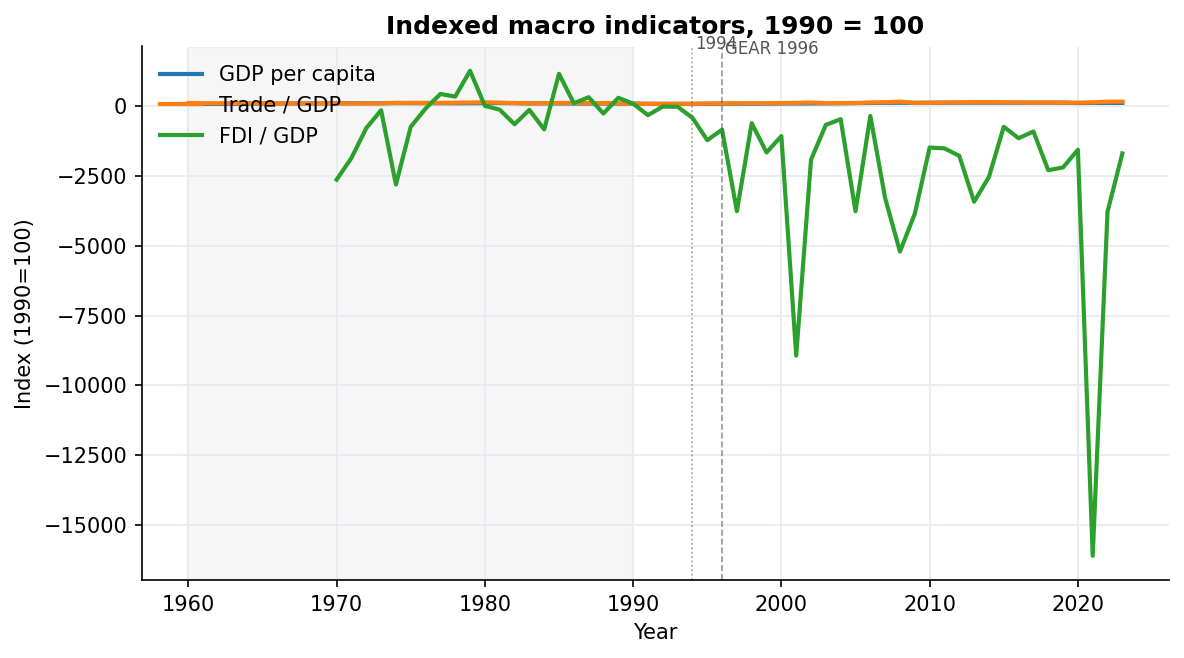
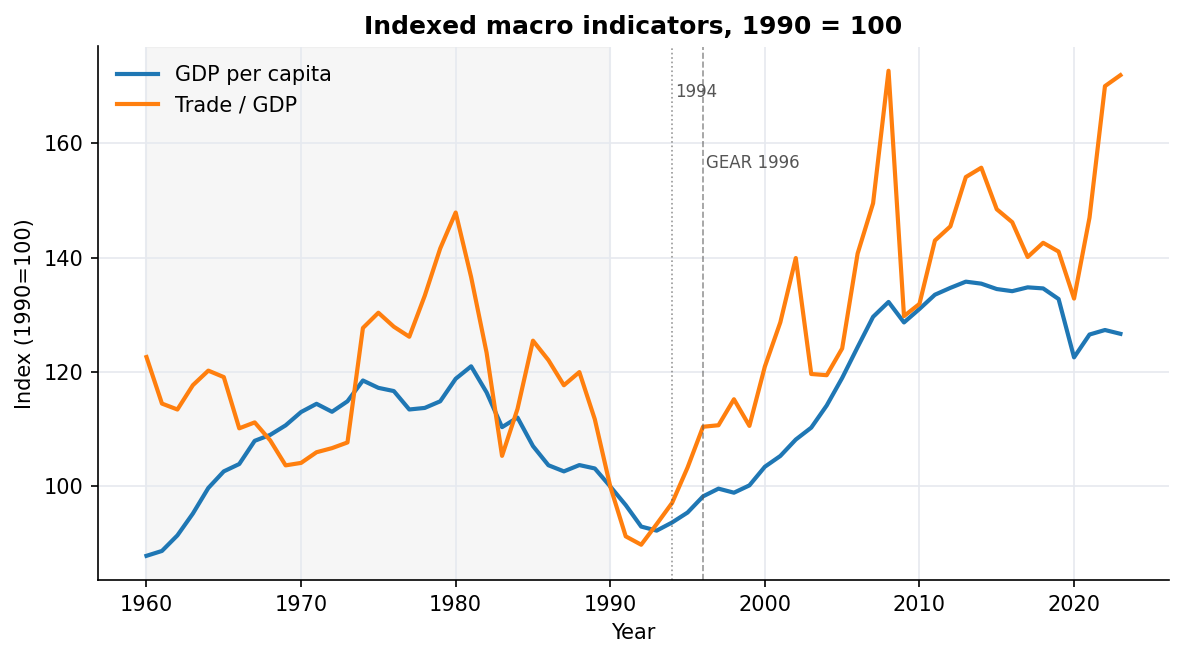
Style conclusions contribution card and polish site copy.
Frosted glass aside for "What this project adds," drop FDI from indexed macro chart, show Two Lives access tags after choices, and move results causal caveat to a footnote.

diff --git a/website_v2/index.html b/website_v2/index.html
@@ -287,7 +287,7 @@
               trade as a share of the economy explodes while income per person lags behind, all while unemployment remains painfully high.
             </p>
             <div class="annotation-list">
-              <p><span>How to read</span> Income per person, trade/GDP and FDI/GDP are set so 1990 = 100 (with macro lines back to 1960); the vertical axis uses a log scale so large swings in trade do not hide slower moves in income.</p>
+              <p><span>How to read</span> Income per person and trade/GDP are set so 1990 = 100 (with macro lines back to 1960); the vertical axis uses a log scale so large swings in trade do not hide slower moves in income.</p>
               <p><span>Caution</span> In these national data, higher trade lines up with higher income per person, higher unemployment, and a higher top-income share, but that does not prove trade caused any of them.</p>
               <p><span>Technical note</span> A formal “long-run link” test between log income per person and trade/GDP does not find a stable long-run pairing here (<span class="mono" id="coint-gdp-trade">p ≈ 0.48</span> for Engle–Granger).</p>
               <p><span>Source</span> World Development Indicators; trade-policy context in <a class="kb-link" href="#sources" data-kb="trade-liberalisation-south-africa">Sources</a>.</p>
@@ -300,7 +300,7 @@
               <figure class="card macro-chart-solo chart-mockup__card">
                 <figcaption class="card-head">
                   <h3>Indexed national indicators, 1990 = 100 (log scale)</h3>
-                  <p class="chart-mockup__card-lede">Income per person, trade/GDP and FDI/GDP from 1960, all indexed to 100 in 1990. The log scale keeps the clearer picture: trade moved a lot; income per person moved less.</p>
+                  <p class="chart-mockup__card-lede">Income per person and trade/GDP from 1960, all indexed to 100 in 1990. The log scale keeps the clearer picture: trade moved a lot; income per person moved less.</p>
                 </figcaption>
                 <div class="chart-canvas-wrap chart-canvas-wrap--tall"><canvas id="chart-indexed"></canvas></div>
               </figure>
@@ -575,9 +575,9 @@
               <code>data/two-lives.json</code>; the engine is <code>two-lives.js</code> (no Chart.js).
               With four options per beat, there are 1,024 paths—yet Pieter lands secure ~88% of the
               time and Sipho only ~22%, because they start at different scores (capital vs. a
-              trade-exposed wage), not because the menu differs. The <strong>~X% could</strong> tags
-              on each button are estimated feasibility shares (QLFS, FinScope, stokvel, grant, and
-              migration proxies)—not real survey choices, because no dataset asks these exact questions.
+              trade-exposed wage), not because the menu differs. After each choice, a
+              <strong>~X% could</strong> tag appears—estimated feasibility (QLFS, FinScope, stokvel,
+              grant, migration proxies), not real survey choices.
             </p>
           </div>
         </details>
@@ -643,12 +643,12 @@
             at the 1996 GEAR pivot, and trade does not robustly explain unemployment levels on its
             own.
           </li>
-          <li>
-            None of these single-country regressions are causal proof. For that this essay leans on
-            <a class="kb-link" href="#sources" data-kb="trade-liberalization-local-labor-markets-south-africa">Erten–Leight–Tregenna's</a>
-            district-level evidence, but they show which patterns are sturdy enough to take seriously.
-          </li>
         </ul>
+        <p class="results-summary-card__note">
+          None of these single-country regressions are causal proof. For that this essay leans on
+          <a class="kb-link" href="#sources" data-kb="trade-liberalization-local-labor-markets-south-africa">Erten–Leight–Tregenna's</a>
+          district-level evidence, but they show which patterns are sturdy enough to take seriously.
+        </p>
       </div>
 
       <details class="card results-detail-toggle">
@@ -985,15 +985,18 @@
           less integration, but better-governed integration so gains in trade and
           investment translate into mass opportunity, not just aggregate improvement.
         </p>
-        <p class="conclusion-contribution">
-          <strong>What this project adds.</strong> Not new primary data, but a new assembly:
+      </div>
+      <aside class="contribution-glass narrow" aria-label="What this project adds">
+        <p class="contribution-glass__label">What this project adds</p>
+        <p class="contribution-glass__lede">Not new primary data — a new assembly.</p>
+        <p class="contribution-glass__body">
           WDI macro indicators, WID inequality shares, and harmonised OHS/LFS/QLFS microdata
           merged into one year-keyed panel—with tradable sector shares, a wave-by-wave
           provincial unemployment map, and pre-1990 context—that no single source publishes
           as a single view. The site and regression battery are built on that integration
           so openness, sector loss, inequality, and geography can be read side by side.
         </p>
-      </div>
+      </aside>
       <div class="card quote-showcase quote-orbit-card">
         <h3 class="card-title">Voices from the record</h3>
         <div

diff --git a/website_v2/styles.css b/website_v2/styles.css
@@ -601,6 +601,7 @@ a:hover { border-bottom-color: currentColor; }
 
 @media (max-width: 900px) {
   .hero { grid-template-columns: 1fr; }
+  .hero-right { align-self: stretch; }
 }
 
 @supports not (background-clip: text) {
@@ -2499,8 +2500,10 @@ details summary h3 { display: inline; }
 }
 .results-summary-list li:last-child { margin-bottom: 0; }
 .results-summary-card__note {
+  margin-top: 14px !important;
   font-family: var(--font-sans) !important;
   font-size: 14.5px !important;
+  line-height: 1.5 !important;
   color: var(--fg-muted) !important;
 }
 .results-detail-toggle {
@@ -2648,6 +2651,72 @@ details summary h3 { display: inline; }
 }
 .conclusion-prose {
   margin-top: 1.5rem;
+}
+
+.contribution-glass {
+  position: relative;
+  margin-top: 1.35rem;
+  margin-bottom: 0;
+  padding: 18px 22px 18px 26px;
+  border-radius: var(--radius-md);
+  overflow: hidden;
+  isolation: isolate;
+  border: 1px solid color-mix(in oklab, var(--rule-strong) 55%, transparent);
+  background: color-mix(in oklab, var(--bg-elev) 44%, transparent);
+  backdrop-filter: blur(16px) saturate(1.35);
+  -webkit-backdrop-filter: blur(16px) saturate(1.35);
+  box-shadow:
+    0 0 0 1px color-mix(in oklab, var(--accent) 14%, transparent),
+    0 10px 32px color-mix(in oklab, var(--fg) 7%, transparent),
+    inset 1px 1px 0 color-mix(in oklab, #fff 10%, transparent),
+    inset 0 -12px 24px color-mix(in oklab, var(--fg) 3%, transparent);
+}
+.contribution-glass::before {
+  content: "";
+  position: absolute;
+  left: 0;
+  top: 0;
+  bottom: 0;
+  width: 4px;
+  background: linear-gradient(
+    180deg,
+    var(--accent) 0%,
+    color-mix(in oklab, var(--accent) 35%, transparent) 100%
+  );
+}
+.contribution-glass__label {
+  margin: 0 0 6px;
+  font-size: 0.72rem;
+  font-weight: 700;
+  letter-spacing: 0.08em;
+  text-transform: uppercase;
+  color: var(--accent-strong);
+}
+.contribution-glass__lede {
+  margin: 0 0 8px;
+  font-family: var(--font-sans);
+  font-size: 0.98rem;
+  font-weight: 600;
+  line-height: 1.4;
+  color: var(--fg);
+}
+.contribution-glass__body {
+  margin: 0;
+  font-family: var(--font-sans);
+  font-size: 0.92rem;
+  line-height: 1.55;
+  color: var(--fg-muted);
+}
+:root[data-theme="dark"] .contribution-glass {
+  background: color-mix(in oklab, var(--bg-elev) 52%, transparent);
+  box-shadow:
+    0 0 0 1px color-mix(in oklab, var(--accent) 18%, transparent),
+    0 12px 36px color-mix(in oklab, #000 42%, transparent),
+    inset 1px 1px 0 color-mix(in oklab, #fff 6%, transparent),
+    inset 0 -14px 28px color-mix(in oklab, #000 18%, transparent);
+}
+:root[data-theme="dark"] .contribution-glass__label {
+  color: var(--accent);
 }
 
 .ground-row-2 { margin-top: 28px; }
@@ -2939,12 +3008,13 @@ details summary h3 { display: inline; }
   max-width: 22ch;
 }
 .hero-thesis-pull em { color: var(--accent-strong); }
-/* Right column: photo card with the three stat boxes stacked beneath it. */
+/* Right column: photo vertically centered against the text block height. */
 .hero-right {
   display: flex;
   flex-direction: column;
   gap: clamp(14px, 1.8vw, 20px);
   min-width: 0;
+  align-self: center;
 }
 .hero-stats {
   display: flex;

diff --git a/website_v2/two-lives.js b/website_v2/two-lives.js
@@ -57,14 +57,6 @@
     return `~${opt.access_pct}% ${suffix}`;
   }
 
-  function optionAccessBadge(opt) {
-    const label = accessLabel(opt);
-    if (!label) return null;
-    const attrs = { class: "tl-option__access", text: label };
-    if (opt.access_basis) attrs.title = opt.access_basis;
-    return el("span", attrs);
-  }
-
   // -- engine state ---------------------------------------------------------
   let data = null;
   let state = null;
@@ -170,24 +162,16 @@
     wrap.appendChild(el("p", { class: "tl-scene", text: beat.scene }));
 
     if (!state.reacted) {
-      if (data.access_meta?.disclaimer) {
-        wrap.appendChild(el("p", { class: "tl-access-note", text: data.access_meta.disclaimer }));
-      }
       const opts = el("div", { class: "tl-options", role: "group", "aria-label": "Choose what happens next" });
       beat.options.forEach((opt, idx) => {
-        const access = accessLabel(opt);
-        const btnAttrs = {
+        opts.appendChild(el("button", {
           class: "tl-option",
           type: "button",
           onclick: () => choose(idx),
-        };
-        if (opt.access_basis) btnAttrs.title = opt.access_basis;
-        if (access) btnAttrs["aria-description"] = access;
-        opts.appendChild(el("button", btnAttrs, [
+        }, [
           el("span", { class: "tl-option__num", text: String(idx + 1), "aria-hidden": "true" }),
           el("span", { class: "tl-option__label", text: opt.label }),
-          optionAccessBadge(opt),
-        ].filter(Boolean)));
+        ]));
       });
       wrap.appendChild(opts);
     } else {
@@ -197,6 +181,11 @@
         ? `You chose: <strong>${escapeHtml(r.label)}</strong> <span class="tl-chose__access">(${escapeHtml(access)})</span>`
         : `You chose: <strong>${escapeHtml(r.label)}</strong>`;
       wrap.appendChild(el("p", { class: "tl-chose", html: choseHtml }));
+      if (r.access_basis) {
+        wrap.appendChild(el("p", { class: "tl-access-note", text: r.access_basis }));
+      } else if (data.access_meta?.disclaimer) {
+        wrap.appendChild(el("p", { class: "tl-access-note", text: data.access_meta.disclaimer }));
+      }
       wrap.appendChild(el("div", { class: "tl-react" }, CHARS.map((k) =>
         el("div", { class: `tl-react__col tl-react__col--${k}` }, [
           el("p", { class: "tl-react__name" }, [nameWithToken(k)]),

diff --git a/website_v2/app.js b/website_v2/app.js
@@ -295,15 +295,14 @@
     if (!canvas) return;
     const years = ts.indexed.years;
     const ds = [];
-    // Use three highly-distinct hues: blue (income), warm orange (trade), purple (FDI).
-    // The previous palette stacked three blue shades that were hard to tell apart.
-    const colors = { gdp_pc_usd: "wdi", trade_gdp: "wid", fdi_gdp: "wiid" };
+    const colors = { gdp_pc_usd: "wdi", trade_gdp: "wid" };
     const styles = {
       gdp_pc_usd: { borderWidth: 2.6 },
       trade_gdp: { borderWidth: 2.6, borderDash: [6, 4] },
-      fdi_gdp: { borderWidth: 2.2, borderDash: [2, 3] },
     };
-    Object.entries(ts.indexed.series).forEach(([key, s]) => {
+    ["gdp_pc_usd", "trade_gdp"].forEach((key) => {
+      const s = ts.indexed.series[key];
+      if (!s) return;
       ds.push(datasetFrom(years, s, colors[key] ?? "fg", styles[key] ?? { borderWidth: 2.2 }));
     });
     makeLineChart(canvas, {

diff --git a/analysis_v2/run_figures.py b/analysis_v2/run_figures.py
@@ -143,12 +143,10 @@ def _build_indexed(df: pd.DataFrame) -> dict:
     series_cols = {
         "gdp_pc_usd": "GDP per capita",
         "trade_gdp": "Trade / GDP",
-        "fdi_gdp": "FDI / GDP",
     }
     col_map = {
         "gdp_pc_usd": "wdi_gdp_pc_usd",
         "trade_gdp": "wdi_trade_gdp",
-        "fdi_gdp": "wdi_fdi_gdp",
     }
     out = {"years": df["year"].tolist(), "series": {}}
     for key, label in series_cols.items():
@@ -304,7 +302,6 @@ def fig_indexed(df: pd.DataFrame) -> None:
     cols = {
         "wdi_gdp_pc_usd": "GDP per capita",
         "wdi_trade_gdp": "Trade / GDP",
-        "wdi_fdi_gdp": "FDI / GDP",
     }
     fig, ax = plt.subplots()
     base = df[df.year == 1990].iloc[0]
